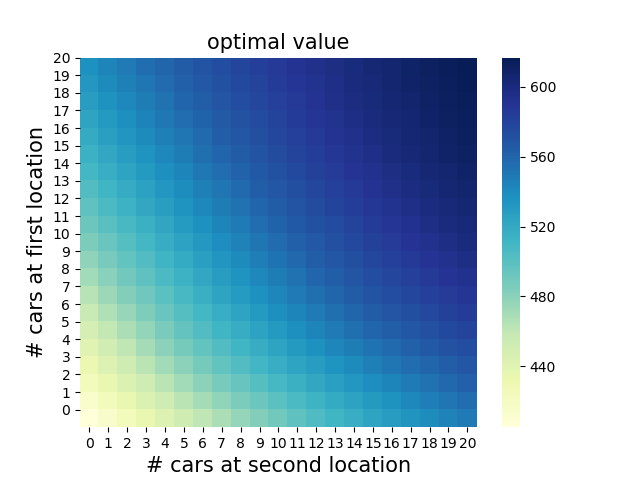
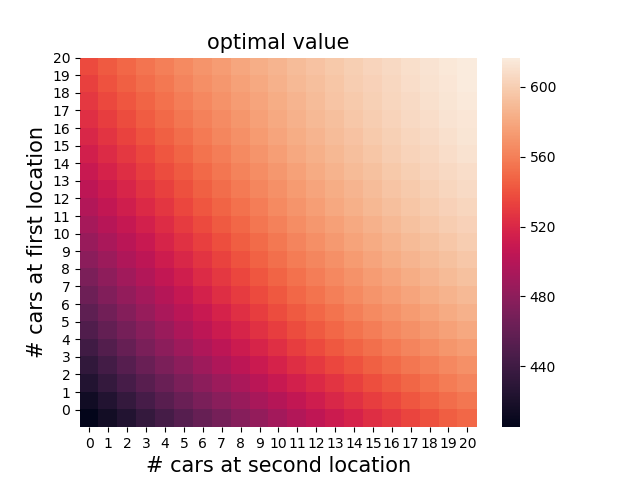
Make finishing touches and refactor

diff --git a/environment.py b/environment.py
@@ -1,30 +1,44 @@
 from itertools import product
 from functools import partial
 import numpy as np
-import futils as λ
-from utils import poisson
+import utils as λ
 
 
 def states(max_cars):
-    return λ.cart_prod(range(max_cars + 1), range(max_cars + 1))
+    "Gives all possible states given the maximum number of cars."
+    return λ.product_t(range(max_cars + 1), range(max_cars + 1))
 
 
-def actions(max_cars_moved):
-    return tuple(range(-max_cars_moved, max_cars_moved + 1))
+def actions(s, max_cars_moved=5):
+    """Gives allowed actions for a given state.
+    
+    s: state.
+    max_cars_moved: Maximum no. of cars that can be moved from one
+    place to another."""
+    return range(max(-s[1], -max_cars_moved), min(max_cars_moved + 1, s[0] + 1))
 
-
+# Discount factor
 GAMMA = 0.9
+# Maximum value of Poisson random variables. Values that are greater
+# or equal to POISSON_THRESHOLD have a probability of 0.
 POISSON_THRESHOLD = 11
-req_loc1_p = partial(poisson, l=3)
-req_loc2_p = partial(poisson, l=4)
-ret_loc1_p = partial(poisson, l=3)
-ret_loc2_p = partial(poisson, l=2)
 
-def state_value_return(s, a, V):
+
+def state_value_return(s, a, V, ex_4_7=False):
+    """Calculates V(s) as the discounted sum over all possible rewards
+    and next states.
+    
+    Set ex_4_7 to True if using for exercise 4.7."""
+    if ex_4_7:
+        s, a = employee_help(s, a)
     s, cost = act(s, a)
+    parking_cost = 0
     init_cars1, init_cars2 = s
     returns = 0.0
 
+    # Each iteration has 4 values corresponding to (cars requested at location
+    # 1, cars requested at location 2, cars returned at location 1, cars
+    # returned at location 2).
     for req_loc1, req_loc2, ret_loc1, ret_loc2 in product(*([range(POISSON_THRESHOLD)] * 4)):
         cars_given_loc1 = min(req_loc1, init_cars1)
         cars_given_loc2 = min(req_loc2, init_cars2)
@@ -35,19 +49,33 @@ def state_value_return(s, a, V):
         cars_loc2 = min(init_cars2 - cars_given_loc2 + ret_loc2, 20)
         
         s_ = (cars_loc1, cars_loc2)
+        if ex_4_7:
+            parking_cost = parking_lot_cost(s_)
 
-        prob = req_loc1_p(req_loc1) * req_loc2_p(req_loc2) * ret_loc1_p(ret_loc1) * ret_loc2_p(ret_loc2)
-        returns += prob * (money_earned - cost + GAMMA * V[s_])
+        prob = λ.poisson(req_loc1, l=3) * λ.poisson(req_loc2, l=4) * λ.poisson(ret_loc1, l=3) * λ.poisson(ret_loc2, l=2)
+        returns += prob * (money_earned - cost - parking_cost + GAMMA * V[s_])
     
     return returns
 
 
 def act(s, a):
-    s1 = s[0] - a
-    s2 = s[1] + a
+    "Returns new state and action, given a state and action."
+    s1 = λ.first(s) - a
+    s2 = λ.second(s) + a
     return (s1, s2), 2 * abs(a)
 
 
-if __name__ == '__main__':
-    V = {s: 0.0 for s in states(20)}
-    print(state_value_return([20, 5], -5, V))
+def employee_help(s, a):
+    "Use employee to send one car to location 2 for free."
+    s1, s2 = s
+    if a > 0 and s1 > 0:
+        s2 += 1
+        s1 -= 1
+        a -= 1
+    return (s1, s2), a
+
+
+def parking_lot_cost(s):
+    "Calculate additional cost for extra parking lots."
+    additional_cost = sum(map(lambda num_cars: 4 if num_cars > 10 else 0, s))
+    return additional_cost

diff --git a/utils.py b/utils.py
@@ -1,66 +1,29 @@
 from itertools import islice, product
 from functools import reduce, lru_cache
 from collections import deque
-import operator as op
 from math import factorial, exp
-
-
-def I(x):
-    return x
 
 
 def mapt(f, *iterables):
     return tuple(map(f, *iterables))
 
 
-def mapl(f, *iterables):
-    return list(map(f, *iterables))
-
-
 def first(iterable, default=None):
     return next(iter(iterable), default)
 
 
-def tail(n, iterable):
-    "Return an iterator over the last n items."
-    # tail(3, 'ABCDEFG') --> E F G
-    return iter(deque(iterable, maxlen=n))
+def second(iterable, default=None):
+    k = iter(iterable)
+    next(k, default)
+    return next(k, default)
 
 
-def first_true(iterable, default=False, pred=None):
-    """Returns the first true value in the iterable.
-    If no true value is found, returns *default*
-    If *pred* is not None, returns the first item
-    for which pred(item) is true."""
-    # first_true([a,b,c], x) --> a or b or c or x
-    # first_true([a,b], x, f) --> a if f(a) else b if f(b) else x
-    return next(filter(pred, iterable), default)
-
-
-def nth(iterable, n, default=None):
-    "Returns the nth item or a default value"
-    return next(islice(iterable, n, None), default)
-
-
-def first_n(n, iterable):
-    "Return first n items of the iterable as a list"
-    return list(islice(iterable, n))
-
-
-def cart_prod(*iters):
+def product_t(*iters):
     "Tuple of cartesian product."
     return tuple(product(*iters))
 
 
-def make_table(*iters, operation=op.mul, initial=1):
-    """Given n iterables, make an n-dimensional table.
-
-    operation: Combines into a single table value using the operation.
-    """
-    return mapt(lambda x: reduce(lambda acc, y: operation(acc, y), initial),
-                cart_prod(*iters))
-
-
 @lru_cache(maxsize=None)
 def poisson(n, l):
+    "Probability mass function for Poisson distribution."
     return (pow(l, n) / factorial(n)) * exp(-l)

diff --git a/plotting.py b/plotting.py
@@ -5,27 +5,35 @@ import matplotlib.pyplot as plt
 import seaborn as sns
 
 
-def vplot(V, max_cars):
+def vplot(V, max_cars, suffix=''):
+    """Plots heatmap of a given value function.
+    
+    Code taken and (slightly) modified from Shangtong Zhang's repo:
+    https://github.com/ShangtongZhang/reinforcement-learning-an-introduction/blob/3827b0a1fd7c5ac3e838dd61151550940a8ff73c/chapter04/car_rental.py#L156"""
     value = np.zeros((max_cars + 1, max_cars + 1))
     for s, v in V.items():
         value[s[0]][s[1]] = v
 
-    fig = sns.heatmap(np.flipud(value), cmap="YlGnBu")
+    fig = sns.heatmap(np.flipud(value))
     fig.set_ylabel('# cars at first location', fontsize=15)
     fig.set_yticks(list(reversed(range(max_cars + 1))))
     fig.set_xlabel('# cars at second location', fontsize=15)
     fig.set_title('optimal value', fontsize=15)
-    plt.savefig('Vplot.png')
+    plt.savefig(f'data/images/Vplot{suffix}.png')
     plt.close()
 
 
-def piplot(π, max_cars):
+def piplot(π, max_cars, suffix=''):
+    """Plots heatmap of a given policy.
+    
+    Code taken and (slightly) modified from Shangtong Zhang's repo:
+    https://github.com/ShangtongZhang/reinforcement-learning-an-introduction/blob/3827b0a1fd7c5ac3e838dd61151550940a8ff73c/chapter04/car_rental.py#L156"""
     policy = np.zeros((max_cars + 1, max_cars + 1))
     for s, a in π.items():
         policy[s[0]][s[1]] = a
     
-    fig = sns.heatmap(np.flipud(policy), cmap="YlGnBu")
+    fig = sns.heatmap(np.flipud(policy), vmin=-5, vmax=5, center=0)
     fig.set_ylabel('# cars at first location', fontsize=15)
     fig.set_yticks(list(reversed(range(max_cars + 1))))
     fig.set_xlabel('# cars at second location', fontsize=15)
-    plt.savefig('piplot.png',)
+    plt.savefig(f'data/images/piplot{suffix}.png')

diff --git a/policy_iteration.py b/policy_iteration.py
@@ -1,10 +1,13 @@
 import numpy as np
 import pickle
 from policy import make_policy
-from environment import states, state_value_return
+from environment import states, state_value_return, actions
 from plotting import vplot, piplot
 
 MAX_CARS = 20
+# Set to True if running for Exercise 4.7
+EX_4_7 = True
+
 
 def policy_iteration(model_return, theta=0.1):
     S = states(MAX_CARS)
@@ -20,15 +23,16 @@ def policy_iteration(model_return, theta=0.1):
             Δ = 0
             for s in S:
                 v = V[s]
-                V[s] = model_return(s, π[s], V)
+                V[s] = model_return(s, π[s], V, EX_4_7)
                 Δ = max(Δ, abs(v - V[s]))
             print(Δ)
+
         # Policy Improvement
         policy_stable = True
         for s in S:
             old_action = π[s]
             # Valid actions
-            A = range(max(-5, -s[1]), min(s[0] + 1, 6))
+            A = actions(s)
             π[s] = max(A, key=lambda a: model_return(s, a, V))
             print(π[s], old_action)
             if old_action != π[s]:
@@ -38,9 +42,9 @@ def policy_iteration(model_return, theta=0.1):
 
 if __name__ == '__main__':
     V, π = policy_iteration(state_value_return)
-    with open('Vpi.pkl', 'wb') as pfile:
-        pickle.dump([V, π], pfile)
-    with open('Vpi.pkl', 'rb') as pfile:
+    # with open('data/Vpi_47.pkl', 'wb') as pfile:
+        # pickle.dump([V, π], pfile)
+    with open('data/Vpi_47.pkl', 'rb') as pfile:
         V, π = pickle.load(pfile)
-    vplot(V, MAX_CARS)
-    piplot(π, MAX_CARS)
+    vplot(V, MAX_CARS, suffix='_47')
+    piplot(π, MAX_CARS, suffix='_47')
